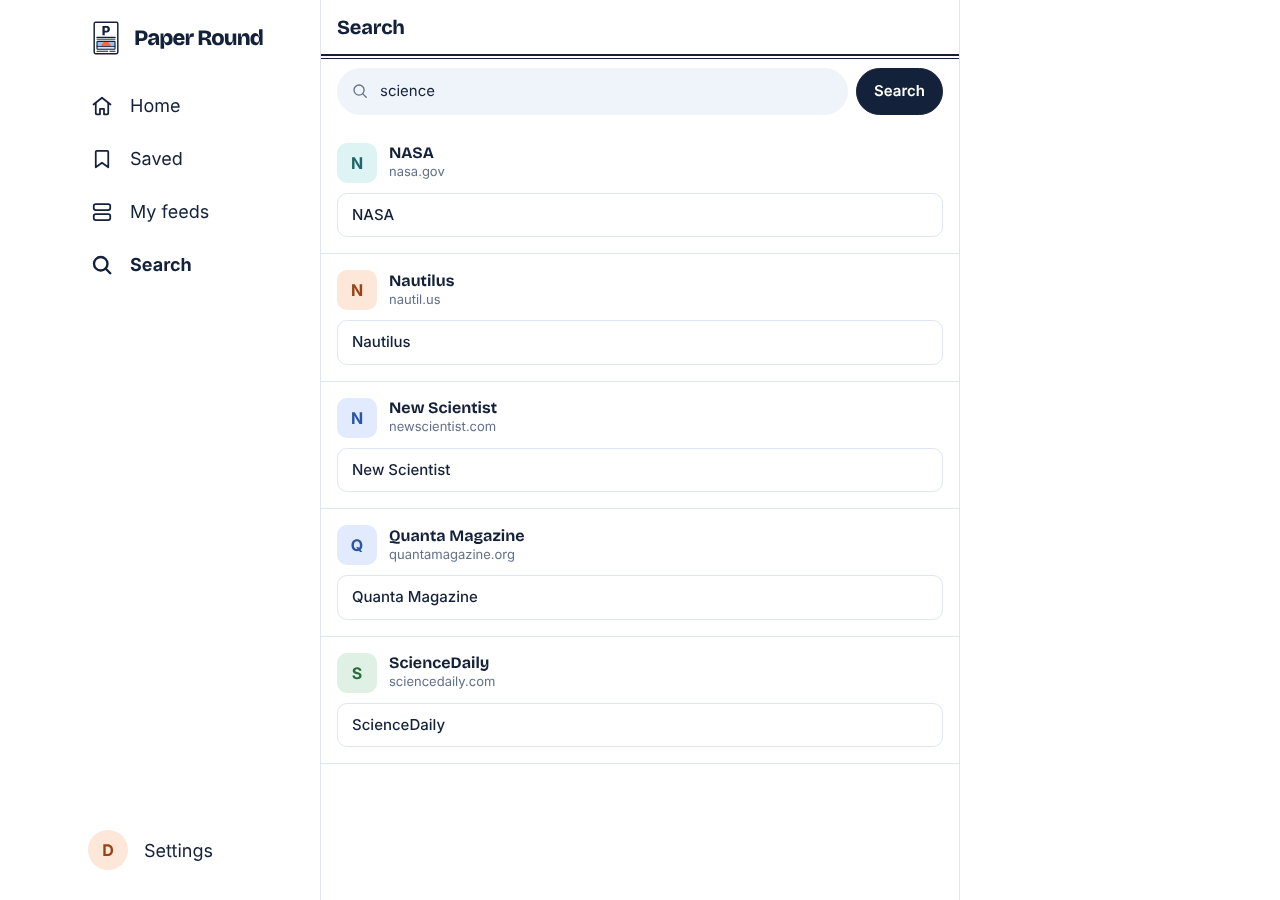
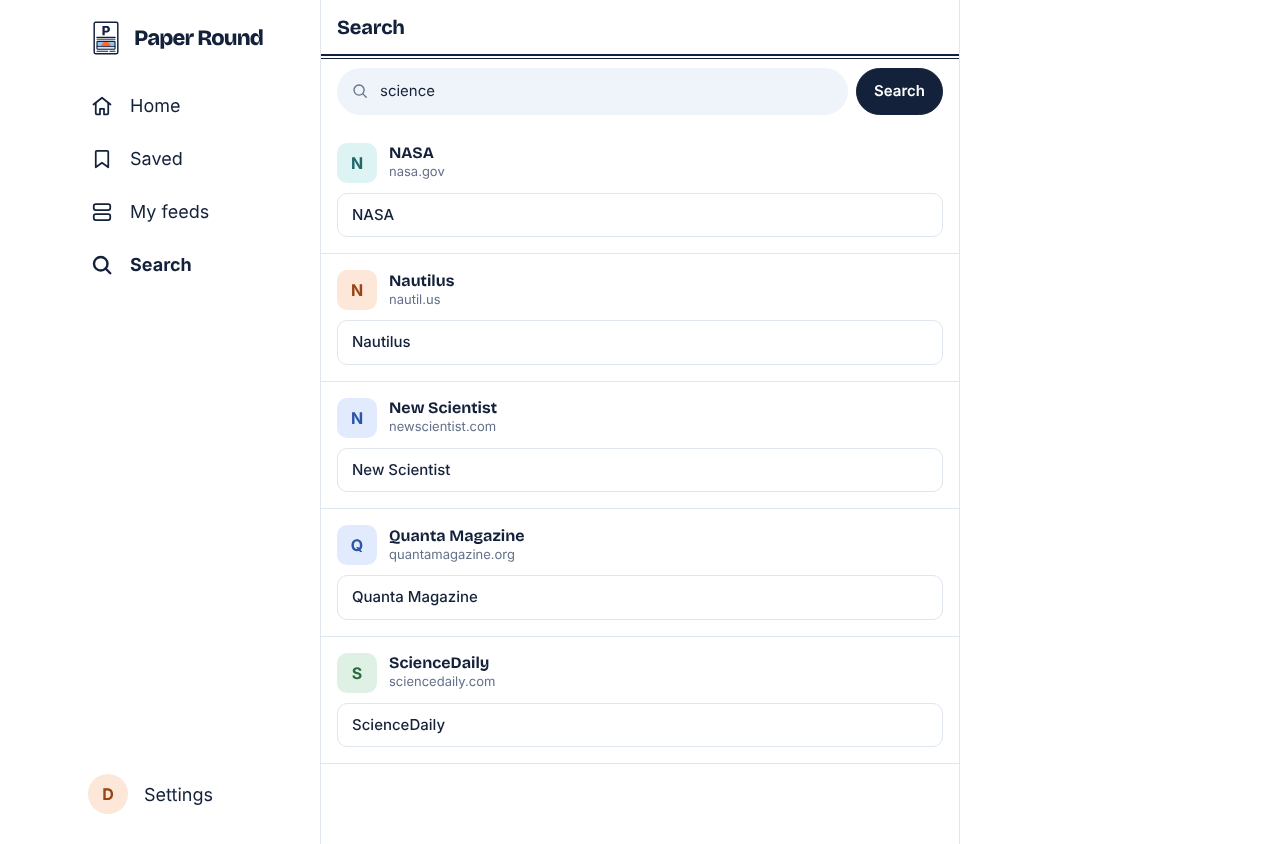
Browse design options (a), (b), (c) behind ?browse= for the design checkpoint

diff --git a/internal/ui/templates/search.html b/internal/ui/templates/search.html
@@ -47,6 +47,69 @@
       {{end}}
 
       {{with .Topics}}
+      {{if eq $.BrowseDesign "b"}}
+      {{/* (b) A topic index, then sections of site rows with descriptions. */}}
+      <nav class="browse-index" aria-label="Topics">
+        <p>Browse popular sites by topic</p>
+        <ul role="list">
+          {{range $i, $t := .}}
+          <li><a href="#topic-{{$i}}">{{$t.Name}}</a></li>
+          {{end}}
+        </ul>
+      </nav>
+      {{range $i, $t := .}}
+      <section class="browse-topic" id="topic-{{$i}}">
+        <div class="list-head">
+          <h2>{{$t.Name}}</h2>
+        </div>
+        <ul role="list">
+          {{range $t.Sites}}
+          <li class="result">
+            <div class="result-head">
+              {{template "avatar" (avatar .ID (or .Title .Host) (index $.Icons .ID))}}
+              <div>
+                <h3><a href="/sites/{{.ID}}">{{if .Title}}{{.Title}}{{else}}{{.Host}}{{end}}</a></h3>
+                <p>{{.Host}}</p>
+              </div>
+            </div>
+            {{with .Description}}<p class="browse-desc">{{.}}</p>{{end}}
+          </li>
+          {{end}}
+        </ul>
+      </section>
+      {{end}}
+      {{else if eq $.BrowseDesign "c"}}
+      {{/* (c) Topic tabs: one topic at a time. */}}
+      <p class="browse-intro">Or browse popular sites by topic.</p>
+      <nav class="timeline-tabs topic-tabs" aria-label="Topics">
+        <ul role="list">
+          {{range .}}
+          <li><a href="/search?browse=c&amp;topic={{.Name}}"{{if eq .Name $.Topic}} aria-current="page"{{end}}>{{.Name}}</a></li>
+          {{end}}
+        </ul>
+      </nav>
+      {{range .}}
+      {{if eq .Name $.Topic}}
+      <section class="browse-topic" aria-label="{{.Name}}">
+        <ul role="list">
+          {{range .Sites}}
+          <li class="result">
+            <div class="result-head">
+              {{template "avatar" (avatar .ID (or .Title .Host) (index $.Icons .ID))}}
+              <div>
+                <h3><a href="/sites/{{.ID}}">{{if .Title}}{{.Title}}{{else}}{{.Host}}{{end}}</a></h3>
+                <p>{{.Host}}</p>
+              </div>
+            </div>
+            {{with .Description}}<p class="browse-desc">{{.}}</p>{{end}}
+          </li>
+          {{end}}
+        </ul>
+      </section>
+      {{end}}
+      {{end}}
+      {{else}}
+      {{/* (a) Sections of site rows, as a search result's head. */}}
       <p class="browse-intro">Or browse popular sites by topic.</p>
       {{range .}}
       <section class="browse-topic">
@@ -67,6 +130,7 @@
           {{end}}
         </ul>
       </section>
+      {{end}}
       {{end}}
       {{end}}
 

diff --git a/internal/ui/static/css/main.css b/internal/ui/static/css/main.css
@@ -2220,6 +2220,62 @@
     font-size: 0.875rem;
   }
 
+  /* (b) The topic index: in-page links, wrapping, like a front page's
+     "Inside" box. Sections leave room for the sticky head or top bar
+     when jumped to. */
+  .browse-index {
+    padding: 1rem 1rem 0.25rem;
+  }
+
+  .browse-index p {
+    color: var(--text-2);
+    font-size: 0.875rem;
+  }
+
+  .browse-index ul {
+    display: flex;
+    flex-wrap: wrap;
+    gap: 0.25rem 1rem;
+    margin-block-start: 0.375rem;
+  }
+
+  .browse-index a {
+    font-size: 0.9375rem;
+    font-weight: 600;
+    text-decoration: none;
+  }
+
+  .browse-index a:hover {
+    text-decoration: underline;
+  }
+
+  .browse-topic {
+    scroll-margin-block-start: 4.5rem;
+  }
+
+  /* (b), (c) A site's description, in the reading face, under its name. */
+  .browse-desc {
+    display: -webkit-box;
+    margin-block-start: 0.375rem;
+    margin-inline-start: 3.25rem;
+    overflow: hidden;
+    color: var(--text-2);
+    font-family: var(--font-reading);
+    font-weight: var(--font-reading-weight);
+    font-size: 1rem;
+    line-height: 1.4;
+    -webkit-box-orient: vertical;
+    -webkit-line-clamp: 2;
+    line-clamp: 2;
+  }
+
+  /* (c) Topic tabs under the search box, as the timeline's tabs. */
+  .topic-tabs {
+    margin-block-start: 0.25rem;
+    padding-inline: 1rem;
+    border-block-end: 1px solid var(--border);
+  }
+
   .result {
     padding: 1rem;
     border-block-end: 1px solid var(--border);

diff --git a/internal/server/search.go b/internal/server/search.go
@@ -36,6 +36,12 @@ type searchData struct {
 	// Topics is the site catalog by topic, shown when there's no query
 	// (Browse): only sites whose lookup has found them.
 	Topics []rss.CatalogTopic
+	// BrowseDesign picks Browse's design for the design checkpoint ("a",
+	// "b" or "c", from ?browse=); removed once one is picked.
+	BrowseDesign string
+	// Topic is the topic design (c) shows, from ?topic=; the first if
+	// unknown or empty.
+	Topic string
 }
 
 // searchHandler searches the database only. GET requests are not covered by
@@ -62,6 +68,20 @@ func (s *Server) searchHandler(w http.ResponseWriter, r *http.Request) {
 			return
 		}
 		data.Topics = topics
+
+		// Design checkpoint switch (#447): removed once a design is picked.
+		data.BrowseDesign = r.URL.Query().Get("browse")
+		if data.BrowseDesign != "b" && data.BrowseDesign != "c" {
+			data.BrowseDesign = "a"
+		}
+		if data.BrowseDesign == "c" && len(topics) > 0 {
+			data.Topic = topics[0].Name
+			for _, t := range topics {
+				if t.Name == r.URL.Query().Get("topic") {
+					data.Topic = t.Name
+				}
+			}
+		}
 
 		var siteIDs []string
 		for _, t := range topics {
